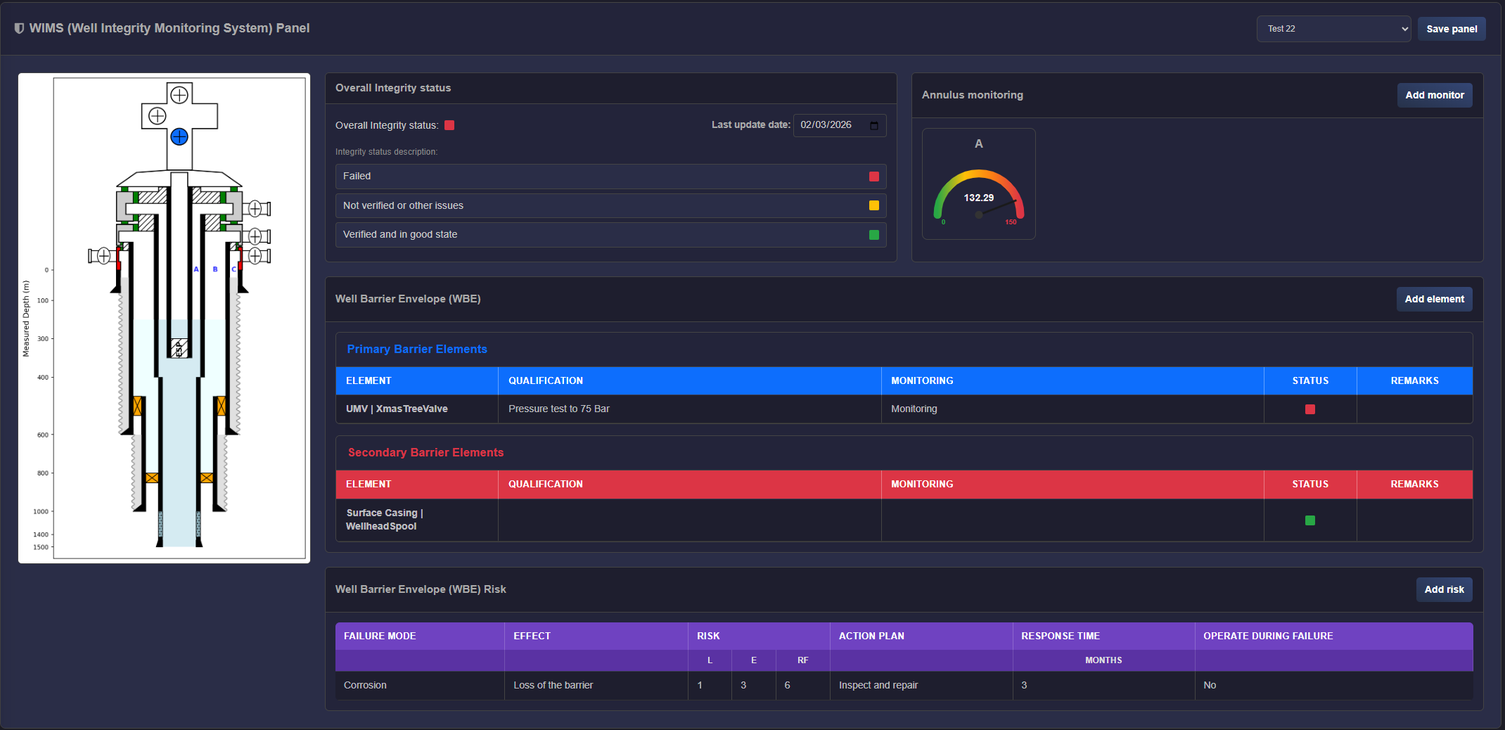
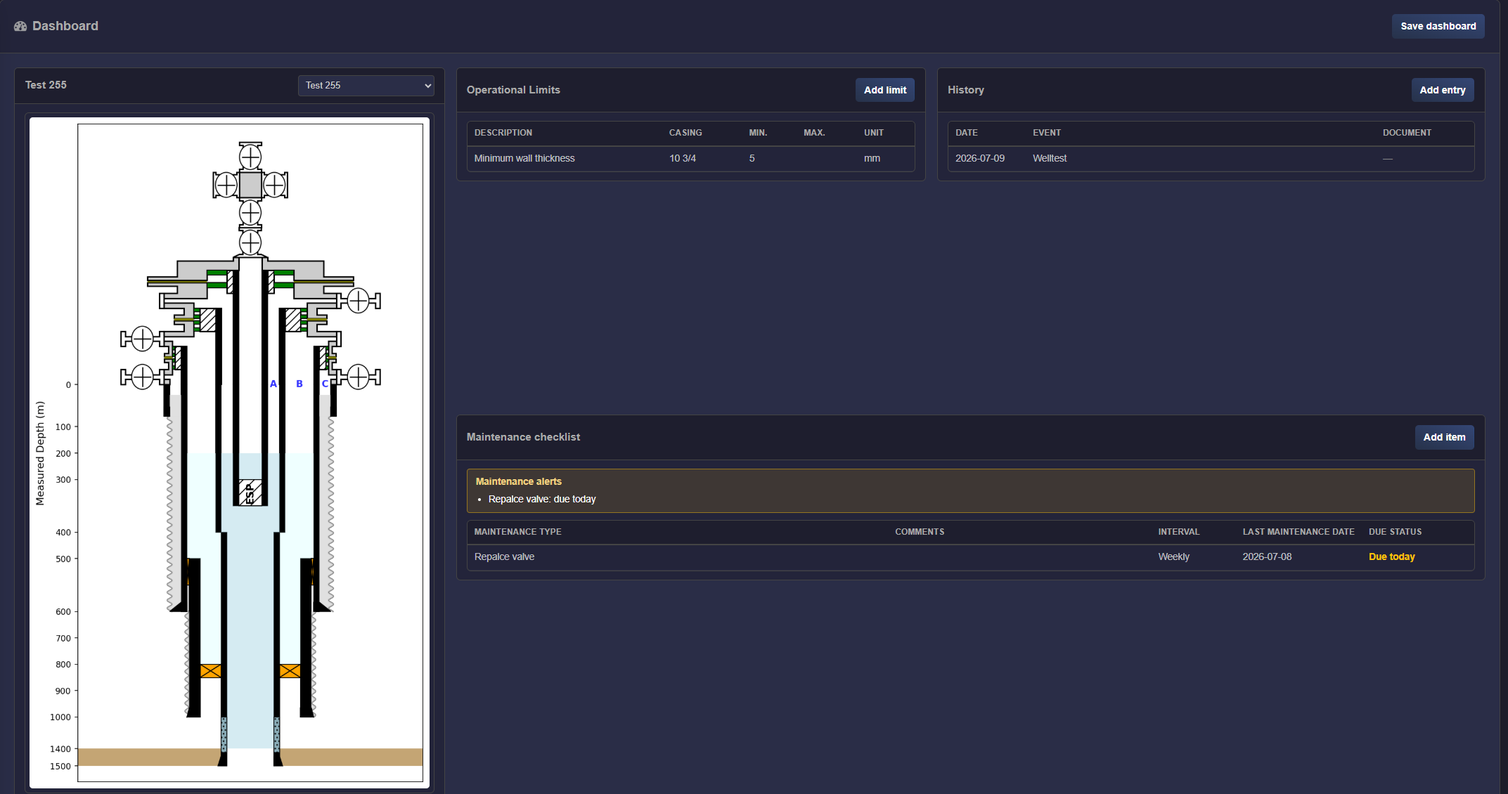
Enhance documentation for Well Schematics and Well Integrity Monitoring applications. Added detailed descriptions for schematic components, workflow steps, and improved clarity on log management and forecasting features. Updated images to reflect changes.

diff --git a/src/gemini_documentation/source/application_wellintegrity.rst b/src/gemini_documentation/source/application_wellintegrity.rst
@@ -3,25 +3,46 @@ Well Integrity
 
 Description
 ---------------------------
-The Well Integrity Monitoring application provides monitoring tools for well integrity in geothermal reservoirs: caliper log processing, remaining thickness on the schematic, corrosion-rate forecasting, annulus pressure monitoring, and Well Barrier Envelope (WBE) tracking.
+The Well Integrity Monitoring application (WIMS) provides monitoring and
+forecasting tools for well integrity in geothermal wells. It combines
+multi-finger caliper log processing (joint detection, QA/QC and per-joint
+remaining-thickness statistics), a well-integrity **Dashboard** (schematic with
+Well Barrier Envelope colouring, operational limits, history, maintenance
+checklist, annulus monitoring and WBE tracking), a **Wall thickness forecast**
+based on a calibrated CO2 corrosion model, and an **Erosion** analysis for the
+production flow path.
+
+Layout
+---------------------------
+Select a well from **Well Name** at the top of the page. The app is then
+organised into three cards:
+
+* **Dashboard** — schematic, operational limits, history, maintenance checklist, and the WIMS subcards (Overall Integrity status, Annulus monitoring, Well Barrier Envelope, WBE Risk).
+* **Wall thickness forecast** — caliper log management (upload / detect joints / process) and the corrosion forecast (Optimize / Predict / Years to minimum thickness).
+* **Erosion** — ESP geometry and erosion calculation for the production flow path.
 
 Workflow (per Well Integrity Monitoring app)
 ---------------------------------------------
 1. **Select well** — On opening the app, the plant is loaded. Choose **Well Name** from the dropdown to view WIMS for that well.
 
-2. **Upload and process caliper logs** — In the **Well Logs** card (left): upload LAS caliper logs via drag‑and‑drop or **Upload**; click **Process Logs** to run processing. Processed logs appear in the table; select one in **View processed log** (right) to see the **Processed Logs** table (per‑joint ID, penetration, remaining thickness).
+2. **Manage caliper logs** — In the **Wall thickness forecast** card, **Wall integrity logs** subcard (**Multi-Finger Caliper Logs**):
+
+   * **Upload log** — Add a LAS caliper log (up to ``MAX_WELL_LOGS`` = 5 logs per well).
+   * **Log info** — Click a log to open the **Log info** modal and set its metadata: date, baseline flag, finger units, joint identification marker, depth-corrected flag, finger name, and the max / min / average column names. A log cannot be processed until its required metadata is filled. Each log shows a status: *inputs required*, *unprocessed*, *detected*, or *processed*. Logs can be removed here.
+   * **Detect Joints** — Run joint detection to propose joint-boundary candidates.
+   * **QA/QC** — Open the **Joint Detection QA/QC** modal to review candidates against the depth chart and **Approve** the correct joints per log.
+   * **Process Logs** — Run processing (uses the approved joints when available) to produce per-joint statistics.
+
         .. image:: images/application_wims_1.png
             :width: 100%
             :align: center
-3. **Well schematic** — Create the well schematic in the **Well Schematics** application and ensure a well tally added in Well Parameters. The WIMS panel appears when the selected well has at least one saved schematic.
 
+3. **Review processed logs** — Select one or more processed logs to chart. Pick a column to plot (per-joint statistic), and open **Finger Detail** to inspect per-finger measurements for a chosen joint.
 
-4. **WIMS panel** — Select a **saved schematic** in the WIMS card header; optionally click **Save panel** to store your configuration. The schematic image is shown (with remaining thickness overlay when a processed log is selected). Use the subcards:
+4. **Well schematic** — Create the well schematic in the **Well Schematics** application and add a well tally in Well Parameters. The Dashboard schematic and WIMS subcards appear when the selected well has at least one saved schematic.
 
-   * **Overall Integrity status** — Last update date (date when the panel was last saved); status legend (Failed / Not verified / Verified).
-   * **Annulus monitoring** — Click **Add monitor**; in the modal choose the annulus (from the schematic), then **Add**. Each monitor is clickable: open it to **Configure gauge** (select Tag, set Min and Max value for alerts, or **Delete monitor**). Save the panel to persist monitors.
-   * **Well Barrier Envelope (WBE)** — Click **Add element**; choose Primary or Secondary table, add from schematic or custom, and fill Qualification / Monitoring / Status / Remarks. Each barrier row is **clickable**: click to edit (Element, Qualification, Monitoring, Status, Remarks) or delete. **Save panel** to store.
-   * **WBE Risk** — Click **Add risk**; fill Failure mode, Effect, Risk (Likelyhood‑Effect‑Risk Factor), Action Plan, Response time, Operate during failure. Each risk row is **clickable** to edit or delete. **Save panel** to store.
+5. **Dashboard** — Select a **saved schematic** in the Dashboard header. Fill in operational limits, history, maintenance and the WIMS subcards (see `Dashboard`_). Click **Save dashboard** to persist the configuration.
+
         .. image:: images/application_wims_2.png
             :width: 100%
             :align: center
@@ -29,74 +50,134 @@ Workflow (per Well Integrity Monitoring app)
         .. image:: images/application_wims_4.png
             :width: 100%
             :align: center
-        
-        .. image:: images/application_wims_5.png
+
+
+6. **Forecast** — In the **Forecast** subcard, click **Optimize** to calibrate the corrosion model against the processed logs, then choose a **Prediction** method (*Current wall thickness* or *Years to minimum thickness*) and click **Run** (see `Wall thickness forecast`_).
+
+        .. add screenshot, then restore the ".. image::" directive below:
+            image:: images/application_wims_6.png
             :width: 100%
             :align: center
 
-5. **Forecasting Panel** — In the **Forecasting Panel**: set **Baseline date** and a date for each processed log in **Log and Baseline Dates**, then click **Save dates**. Set **Minimum remaining thickness [mm]** in **Corrosion limits** and click **Save**. Click **Calculate** to compute corrosion rate and remaining days to min. thickness. The **Corrosion** table shows joint-wise corrosion rates, remaining thickness per log date, and remaining days to min. thickness.
-        .. image:: images/application_wims_6.png
-            :width: 100%
-            :align: center      
+7. **Erosion** — In the **Erosion** card, define the ESP geometry, choose a correlation and production window, and click **Run erosion** (see `Erosion`_).
 
 Inputs
 --------------------------------------
-* **Caliper log** — LAS format (up to 2.0 supported). The file should have ``DATE`` or ``PID`` mnemonic for the logging date. Finger channels should be named ``D01``, ``D02``, etc. (double radii measurement).
+* **Caliper log** — LAS format (up to 2.0 supported). The file should have a ``DATE`` or ``PID`` mnemonic for the logging date. Finger channels should be named ``D01``, ``D02``, etc.
 
-* **Well schematic** — Created in the Well Schematics application; select a saved schematic in the WIMS panel.
+* **Per-log metadata** — Set in the **Log info** modal (stored in ``logs_information.json``): date, baseline flag (a single log per well can be the baseline), finger units (e.g. radius / double radius / diameter), joint identification marker (CCL, log markers, or tally), depth-corrected flag, finger name, and the max / min / average column names.
 
-* **Well tally** — Required for joint-based processing. Provide via Well Parameters (app builder) . Format example:
+* **Well schematic** — Created in the Well Schematics application; select a saved schematic in the Dashboard.
+
+* **Well tally** — Required for joint-based processing. Provide via Well Parameters (app builder). Format example:
 
     .. image:: images/application_wims_3.png
         :width: 100%
         :align: center
 
+* **ESP geometry and production data** — Required for erosion (and for corrosion calibration/prediction, which use production flow, pressure and temperature over a time window). ESP geometry is edited/saved in the Erosion card.
+
 Caliper log processing
 --------------------------------------
-Processing runs when you click **Process Logs**. For each well joint, the following are computed:
+Processing runs in three steps:
 
-* Maximum, minimum and average ID
-* Maximum loss percentage
-* Maximum penetration and corresponding depth
-* Minimum penetration and corresponding depth
-* Remaining wall thickness (most pessimistic case)
+1. **Detect Joints** — Proposes joint-boundary candidates from the log using the configured *joint identification marker* (CCL collar peaks, log-curve markers, or the well tally as a fallback). Each candidate has a depth, kind, and score.
 
-Log depths should be calibrated to the same depth reference prior to processing.
+2. **QA/QC and Approve** — In the **Joint Detection QA/QC** modal, review the candidates against the depth chart and approve the correct joints. Approved joints are matched to the well tally.
 
-WIMS panel (schematic and monitoring)
+3. **Process Logs** — For each well joint, computes:
+
+   * Maximum, minimum and average radius [inch]
+   * Maximum penetration [%] — ``100 x (max radius - nominal inner radius) / (nominal outer radius - nominal inner radius)``
+   * Maximum wall loss [%] — circumferential loss averaged over the joint depth rows
+   * Maximum penetration depth and minimum penetration depth [m]
+   * Remaining wall thickness [inch] — ``nominal outer radius - maximum radius`` (one-sided, worst-case pit)
+
+Log depths should be calibrated to the same depth reference prior to processing (set the *depth-corrected* flag in the Log info modal).
+
+Dashboard
 --------------------------------------
-* **Schematic** — Select a saved schematic; the diagram is shown with optional remaining-thickness overlay when a processed log is selected.
+Select a saved schematic in the Dashboard header; the schematic image is shown
+with Well Barrier Envelope colouring applied (primary elements blue, secondary
+red, and failed elements highlighted yellow). Click **Save dashboard** to
+persist all Dashboard state.
 
-* **Overall Integrity status** — Last update date; status legend: Failed (red), Not verified or other issues (amber), Verified and in good state (green).
+* **Operational Limits** — Table of Description, Casing, Min., Max. and Unit. Add via **Add limit** (description presets include minimum wall thickness, temperature, and annulus A/B/C pressure, plus a Custom option; casing-specific limits pick a casing from the tally).
 
-* **Annulus monitoring** — Add monitors per annulus; configure Tag, Min value and Max value. Monitors can be saved with the panel. **Data refresh:** tag values (e.g. annulus pressure) are fetched from the application every **10 seconds** for all configured monitors; the gauge display and min/max alerts update accordingly.
+* **History** — Dated event log. Add via **Add entry**; each entry can have a document attached (uploaded to the server and downloadable from the table).
 
-* **Well Barrier Envelope (WBE)** — Primary and Secondary barrier elements tables. Each row: Element, Qualification, Monitoring, Status (Failed / Not verified / Verified), Remarks. Add elements from schematic or as custom; edit or delete via row actions.
+* **Maintenance checklist** — Table of maintenance type, comments, interval, last maintenance date and a computed **Due status** (days remaining until the next due date, or days overdue). Add via **Add item**.
 
-* **WBE Risk** — Table: Failure mode, Effect, Risk (Likelyhood‑Effect‑Risk Factor), Action Plan, Response time (months), Operate during failure. Add or edit risks via modals.
+* **Overall Integrity status** — Overall status dot and a **Last update date**; legend: Failed (red), Not verified or other issues (amber), Verified and in good state (green).
 
-Forecasting panel
+* **Annulus monitoring** — Add monitors per annulus via **Add monitor** (choose the annulus from the schematic). Each monitor is a gauge: **Configure gauge** (select Tag, set Min and Max alert values) or **Delete monitor**. Tag values and recent time series are fetched from the application; when a value crosses an alert threshold an alarm is raised and can be acknowledged.
+
+* **Well Barrier Envelope (WBE)** — Primary and Secondary barrier element tables. Each row: Element, Qualification, Monitoring, Status (Failed / Not verified / Verified), Remarks. Add elements from the schematic or as custom via **Add element**; click a row to edit or delete.
+
+* **WBE Risk** — Table of Failure mode, Effect, Risk (Likelihood L, Effect E, Risk factor L x E), Action Plan, Response time (months) and Operate during failure. Add via **Add risk**; click a row to edit or delete.
+
+        .. add screenshot, then restore the ".. image::" directive below:
+            image:: images/application_wims_dashboard.png
+            :width: 100%
+            :align: center
+
+Wall thickness forecast
 --------------------------------------
-* **Log and Baseline Dates** — Baseline date (single date); table of log name and date for each processed log. **Save dates** stores them (used for corrosion-rate calculation).
+The **Forecast** subcard uses a calibrated CO2 corrosion model rather than a
+manual rate calculation.
 
-* **Corrosion limits** — Minimum remaining thickness [mm]. **Save** stores the value (used for “remaining days to min. thickness”).
+* **Optimize** — Calibrates the corrosion model against the processed logs and production data, and persists the calibrated parameters (``corrosion_opt_params.json``). A "last optimized" note shows when calibration was last run. Optimization must be run before prediction.
 
-* **Calculate** — Enabled when Baseline date and all log dates are set. Computes corrosion rate between log intervals, remaining thickness at each log date, and (if minimum remaining thickness is set) remaining days until that minimum. Result table: Joint No., corrosion rate columns per interval, remaining thickness columns per log date, and “Remaining days to min. thickness [days]”.
+* **Prediction method** — After optimization, choose a method and click **Run**:
 
-Calculation logic (how the corrosion calculation is performed)
+  * **Current wall thickness** — Predicts the remaining wall thickness from the latest log up to now, using the calibrated model over the intervening production window. Result: predicted remaining wall thickness per joint.
+  * **Years to minimum thickness (past-year production)** — Projects the calibrated model's trailing 12-month corrosion rate forward to estimate, per casing, the years until the casing reaches its minimum wall thickness (using the per-casing minimum thicknesses entered in the Dashboard). Reports the limiting joint and the worst joints per casing.
+
+Erosion
+--------------------------------------
+The **Erosion** card estimates erosion along the production flow path from the
+well tally, ESP geometry and production data.
+
+* **ESP geometry** — Shows the ESP setting depth (from the plant) and the production casing ID (from the tally), and lets you set the production tubing ID [inch] and edit the geometry components (Type, Name, Length [m], OD [inch]). **Save ESP geometry** stores it per well.
+
+* **Erosion calculation** — Choose a **Correlation** (DNVGL, OKA, API, or E/CRC Tulsa), a production **Start**/**End** date, the **Fluid density** [kg/m3] and a **Flow statistic** (Mean or Max), plus correlation-specific parameters (e.g. particle impact angle, hardness, particle/pipe material). Click **Run erosion**.
+
+* **Results** — Per-segment flow velocity [m/s] and erosion rate [mm/year] (for DNVGL / OKA / E/CRC Tulsa), or an API velocity-limit comparison (erosional velocity limit, flow velocity, and whether it is exceeded). A summary aggregates the worst erosion rate per joint.
+
+        .. add screenshot, then restore the ".. image::" directive below:
+            image:: images/application_wims_erosion.png
+            :width: 100%
+            :align: center
+
+How the calculations work
+--------------------------------------
+
+Caliper processing method
 ~~~~~~~~~~~~~~~~~~~~~~~~~~~~~~~~~~~~~~~~~~~~~~~~~~~~~~~~~~~~~~
-* **Logs used** — Only processed logs that have a date saved in **Log and Baseline Dates** are used. Logs are sorted **chronologically by date** (earliest first). The **Baseline date** is a single reference date (e.g. installation or first survey) and must be set.
+For each matched joint, finger-radius channels are sliced over the joint depth
+interval and coupling spikes are excluded. From the cleaned radii, per joint:
 
-* **Corrosion rate [mm/year]** — One column per time interval:
+* **Max / Min / Mean radius [inch]** — over the finger columns.
+* **Max penetration [%]** — ``100 x (max radius - nominal inner radius) / (nominal outer radius - nominal inner radius)``, where nominal inner/outer radii are ``ID/2`` and ``OD/2`` from the matched tally row.
+* **Max wall loss [%]** — circumferential wall loss averaged over the joint's depth rows.
+* **Remaining wall thickness [inch]** — ``nominal outer radius - max radius`` (one-sided, deepest pit).
 
-  * **First interval (Baseline → first log):** For each joint, ID at “baseline” is the **nominal ID from the well tally** (unchanged). ID at first log is the **Min. ID** from that processed log (worst case). Corrosion rate = | baseline ID − first‑log ID | in mm, divided by the time span (first log date − baseline date) in days, then × 365 to get mm/year.
+Corrosion forecast (calibrated model)
+~~~~~~~~~~~~~~~~~~~~~~~~~~~~~~~~~~~~~~~~~~~~~~~~~~~~~~~~~~~~~~
+* **Log-measured rate** — Between two dated logs (or from a baseline log), the wall-thickness change rate [mm/year] is derived from the change in **maximum inner radius** (worst pit) per joint over the elapsed time. The baseline is the log flagged as baseline, otherwise the earliest dated log. Remaining wall thickness at a log date is ``(OD/2 - max radius) x 25.4`` [mm].
 
-  * **Later intervals (consecutive log pairs):** For each pair “previous log date → current log date”, ID is taken as **Mean. ID** from each processed log. Corrosion rate = | Mean. ID (previous) − Mean. ID (current) | in mm, divided by (current date − previous date) in days, then × 365 → mm/year.
+* **Optimize (calibration)** — For each joint and log interval, the DLD CO2 corrosion model coefficients (A, B, C, D) are calibrated so the modelled rate matches the log-measured rate; the sign term (E) is derived from the measured trend. The modelled rate integrates the CO2 corrosion rate over the production window (flow, pressure, temperature per joint) between log dates.
 
-  So with three logs (L1, L2, L3) you get: one column “Baseline → L1”, one “L1 → L2”, one “L2 → L3”. Each column is per joint; joints beyond the log length are left blank (NaN).
+* **Predict (current wall thickness)** — Starting from the latest processed log's maximum inner radius, the calibrated model is integrated over the production window from the latest log date to now, giving the predicted inner radius and remaining wall thickness [mm] per joint.
 
-* **Remaining thickness [mm] per log date** — For each log (by date), for each joint: remaining thickness = **(OD from well tally) − (Min. ID from that log)**, converted to mm (× 25.4). One column per log date: “Remaining thickness [mm] (YYYY-MM-DD)”.
+* **Years to minimum thickness** — The per-joint annual corrosion rate is taken from the calibrated model over the last 12 months of production; ``years to min = (remaining wall now [mm] - minimum wall [mm]) / rate [mm/year]``. Per casing, the soonest (limiting) joint sets the casing result.
 
-* **Remaining days to min. thickness** — Uses the **latest** values only: the **latest corrosion rate** (the interval ending at the most recent log date) and the **latest remaining thickness** (at that most recent log date). For each joint: **days = (remaining thickness [mm] − minimum remaining thickness [mm]) / (corrosion rate [mm/year]) × 365.25**. If remaining thickness is already ≤ minimum, result is 0 days. If corrosion rate is ≤ 0 or missing, result is not defined (shown as blank). Values are rounded to whole days in the table.
-
-
+Erosion method
+~~~~~~~~~~~~~~~~~~~~~~~~~~~~~~~~~~~~~~~~~~~~~~~~~~~~~~~~~~~~~~
+The production flow path is split into segments from the well tally and ESP
+geometry (tubing interior, ESP-joint annulus, and tubing above the ESP). A
+representative flow rate (mean or max of the production series) gives the flow
+velocity ``v = (flow [m3/h] / 3600) / (pi x d^2 / 4)`` [m/s] per segment. The
+selected correlation then gives, per segment, an erosion rate [mm/year] (DNVGL,
+OKA, E/CRC Tulsa) or, for API, an erosional velocity limit [m/s] compared
+against the flow velocity.

diff --git a/src/gemini_documentation/source/application_well_schematics.rst b/src/gemini_documentation/source/application_well_schematics.rst
@@ -8,20 +8,39 @@ schematics diagrams for well integrity management.
 
 Schematics components
 ---------------------------
+Each unit is edited through a set of tabs: **General**, **Caprock**, **Tubulars**,
+**Fluids**, **Cements**, **Packers**, **Plugs**, **Screens**, **Wellhead**, and
+**Xmas Tree**.
+
+General (layout and figure)
+~~~~~~~~~~~~~~~~~~~~~~~~~~~
+  * **Layout Mode:** Uniform | Depth Transformed (Uniform: fixed width; Depth Transformed: scale by depth).
+  * **Uniform Width** — Tubular width.
+  * **Uniform Spacing** — Annular space.
+  * **Figure Size Width** — Figure width.
+  * **Figure Size Height** — Figure height.
+  * **Show Axes** — When unchecked, hides axis labels, ticks, spines, and grid.
+
+Caprock
+~~~~~~~~~~~~~~~~~~~~~~~~~~~
+  * **Caprock** — Optional caprock band drawn over a depth interval.
+
+  **Options:** Enable Caprock. Top Depth [m]; Bottom Depth [m]; Hatch Pattern: ``--`` | ``//``.
+
 Tubulars
 ~~~~~~~~~~~~~~~~~~~~~~~~~~~
   * **Casing** — Pipe cemented in the wellbore (conductor, surface, intermediate); can be tapered. Defines top/bottom depth, OD/ID, and optional openhole.
   * **Tubing** — Production conduit inside casing; can include an ESP interval.
   * **Liner** — Casing that does not extend to surface. Same depth/OD/ID as other tubulars.
 
-  **Options:** Type: Casing | Tubing | Liner. Casing can be tapered (two segments). Hanger seal: Single Seal Hanger | Double Seal Hanger.
+  **Options:** Type: Casing | Tubing | Liner. Top/Bottom Depth [m]; Inner Diameter [inch]; Outer Diameter [inch]; optional Openhole Diameter [inch] with optional Hole Top Depth / Hole Bottom Depth [m]. Draw Shoe toggle. Number of hanger seals per spool: 1 | 2. Casing can be tapered (define one or more depth segments with Top/Bottom [m] and ID/OD [inch]). Tubing can enable an ESP interval (ESP Top/Bottom Depth [m]).
 
 Fluids
 ~~~~~~~~~~~~~~~~~~~~~~~~~~~
   * **Inner fluids** — Fluids inside a tubular. Defined by type, location, and depth interval (top–bottom).
   * **Annulus fluids** — Fluids in the ring between two tubulars; use location “Outside”.
 
-  **Options:** Fluid type: Brine | Oil | Mud | Gas | Water | Air | N2 | Empty. Location: Inside | Outside.
+  **Options:** Fluid type: Brine | Oil | Mud | Gas | Water | Air | N2 | Empty. Location: Inside | Outside. Top/Bottom Depth [m]; optional Density.
 
 Cements
 ~~~~~~~~~~~~~~~~~~~~~~~~~~~
@@ -33,7 +52,7 @@ Packers
 ~~~~~~~~~~~~~~~~~~~~~~~~~~~
   * **Packer** — Seals the annulus at a depth interval. Placed within a tubular unit.
 
-  **Options:** Packer type: Standard | Mechanical | Retrievable | Permanent | Inflatable | Hydraulic | Compression | Tension.
+  **Options:** Packer type: Primary | Standard | Mechanical | Retrievable | Permanent | Inflatable | Hydraulic | Compression | Tension.
 
 Plugs
 ~~~~~~~~~~~~~~~~~~~~~~~~~~~
@@ -47,18 +66,11 @@ Screens
 
   **Options:** Screen type: Wire Wrap | Slotted | Perforated | Mesh.
 
-General (layout and figure)
-~~~~~~~~~~~~~~~~~~~~~~~~~~~
-  * **Layout mode:** Uniform | Depth Transformed (Uniform: fixed width; Depth Transformed: scale by depth).
-  * **Uniform Width** — Tubular Width.
-  * **Uniform Spacing** — Annular Space.
-  * **Figure Size Width** — Figure Width.
-  * **Figure Size Height** — Figure height.
-
 Wellhead
 ~~~~~~~~~~~~~~~~~~~~~~~~~~~
   * **Enable Wellhead Valves** — Toggle to show/hide wellhead valves on the schematic.
-  * **A-Ring, B-Ring, C-Ring, D-Ring** — For each ring: Enable ring; Include Left Valves; Include Right Valves. Controls which annulus valves are drawn at the wellhead.
+  * **Show Seals** — Toggle wellhead seals. The seal layout is derived from the tubular ``num_seals`` and annulus geometry.
+  * **Per-spool configuration** — Collapsible advanced section for A-annulus, B-Ring, C-Ring, and D-Ring. For each: Enable; Include Left Valves; Include Right Valves. Controls which annulus valves are drawn at the wellhead.
 
 Xmas Tree
 ~~~~~~~~~~~~~~~~~~~~~~~~~~~
@@ -67,31 +79,35 @@ Xmas Tree
 
 Workflow (per Well Schematics app)
 ------------------------------------
-1. **Select well** — Choose **Well Name** from the dropdown (well list is loaded from the project).
+The toolbar at the top of the app holds the **Well** dropdown, the **Schematic**
+dropdown, a status badge, and the **New**, **Save**, **Save As…**, and **Delete**
+buttons.
+
+1. **Select well** — Choose a well from the **Well** dropdown (well list is loaded from the project).
+
         .. image:: images/application_schematics_1.png
             :width: 100%
             :align: center
+
 2. **Create or load a schematic**
-   * **Create New** — Click **Create New**. Choose a template (Simple Well, Standard Well, Double Skin, or Create from Scratch). The form opens with template data or empty.
-   * **Load existing** — Select a saved schematic from the dropdown and click **Load Selected** to load it into the form.
+   * **Create new** — Click **New** (or choose *New schematic* in the **Schematic** dropdown) to open the template picker. Choose a template — Simple Well, Standard Well, Double Skin, or Create from Scratch — and the editor opens with template data or empty.
+   * **Load existing** — Select a saved schematic in the **Schematic** dropdown; it loads automatically into the editor. If the current schematic has unsaved changes, you are prompted to save or discard before switching.
 
         .. image:: images/application_schematics_2.png
           :width: 100%
           :align: center
 
 3. **Define units**
-   * **Create New Unit** — Click **Create New Unit**. Fill the **Tubulars** tab (type, name, depths, OD/ID, optional openhole, draw shoe, hanger seal; for tubing, optional ESP). Add **Fluids**, **Cements**, **Packers**, **Plugs**, or **Screens** in their tabs. Set **General** (layout, figure size), **Wellhead**, and **Xmas Tree** if needed. Click **Save Unit**.
-   * **Edit unit** — In the unit list, select a unit, then click **Edit Selected Unit**. Change fields and sub-elements as needed. Click **Save Changes** to keep, **Delete** to remove the unit, or **Cancel Edit** to discard.
-          
+   * **Add unit** — In the **Current Units** panel click **Add unit**, then fill the tabs: **Tubulars** (type, name, depths, OD/ID, optional openhole and hole interval, draw shoe, hanger seals; for tubing, optional ESP), plus **Fluids**, **Cements**, **Packers**, **Plugs**, and **Screens**. Set **General** (layout, figure size, show axes), **Caprock**, **Wellhead**, and **Xmas Tree** as needed.
+   * **Edit unit** — Select a unit in the **Current Units** list to edit it in the tabs. Edits are held in the working schematic and are persisted when you save; there is no separate per-unit save.
+
           .. image:: images/application_schematics_3.png
             :width: 100%
             :align: center
 
-4. **Preview** — Click **Generate Schematic** to draw the diagram in the schematic output card.
+4. **Preview** — Click **Generate Schematic** in the schematic output card to draw the diagram.
 
-5. **Save schematic** — Enter a **Schematic Name** and click **Save Schematic** to save to the server for the selected well.
-
-6. **Optional** — Use **Generate JSON** to view or copy the schematic JSON. Annulus and Pressure Barrier Elements are derived from tubular and fluid data and can be passed to the Well Integrity application.
+5. **Save schematic** — Click **Save** to store changes to the current schematic, or **Save As…** to save under a new name (you are prompted for the schematic name). Use **Delete** to remove the selected schematic. Schematics are stored on the server for the selected well.
 
 
 
